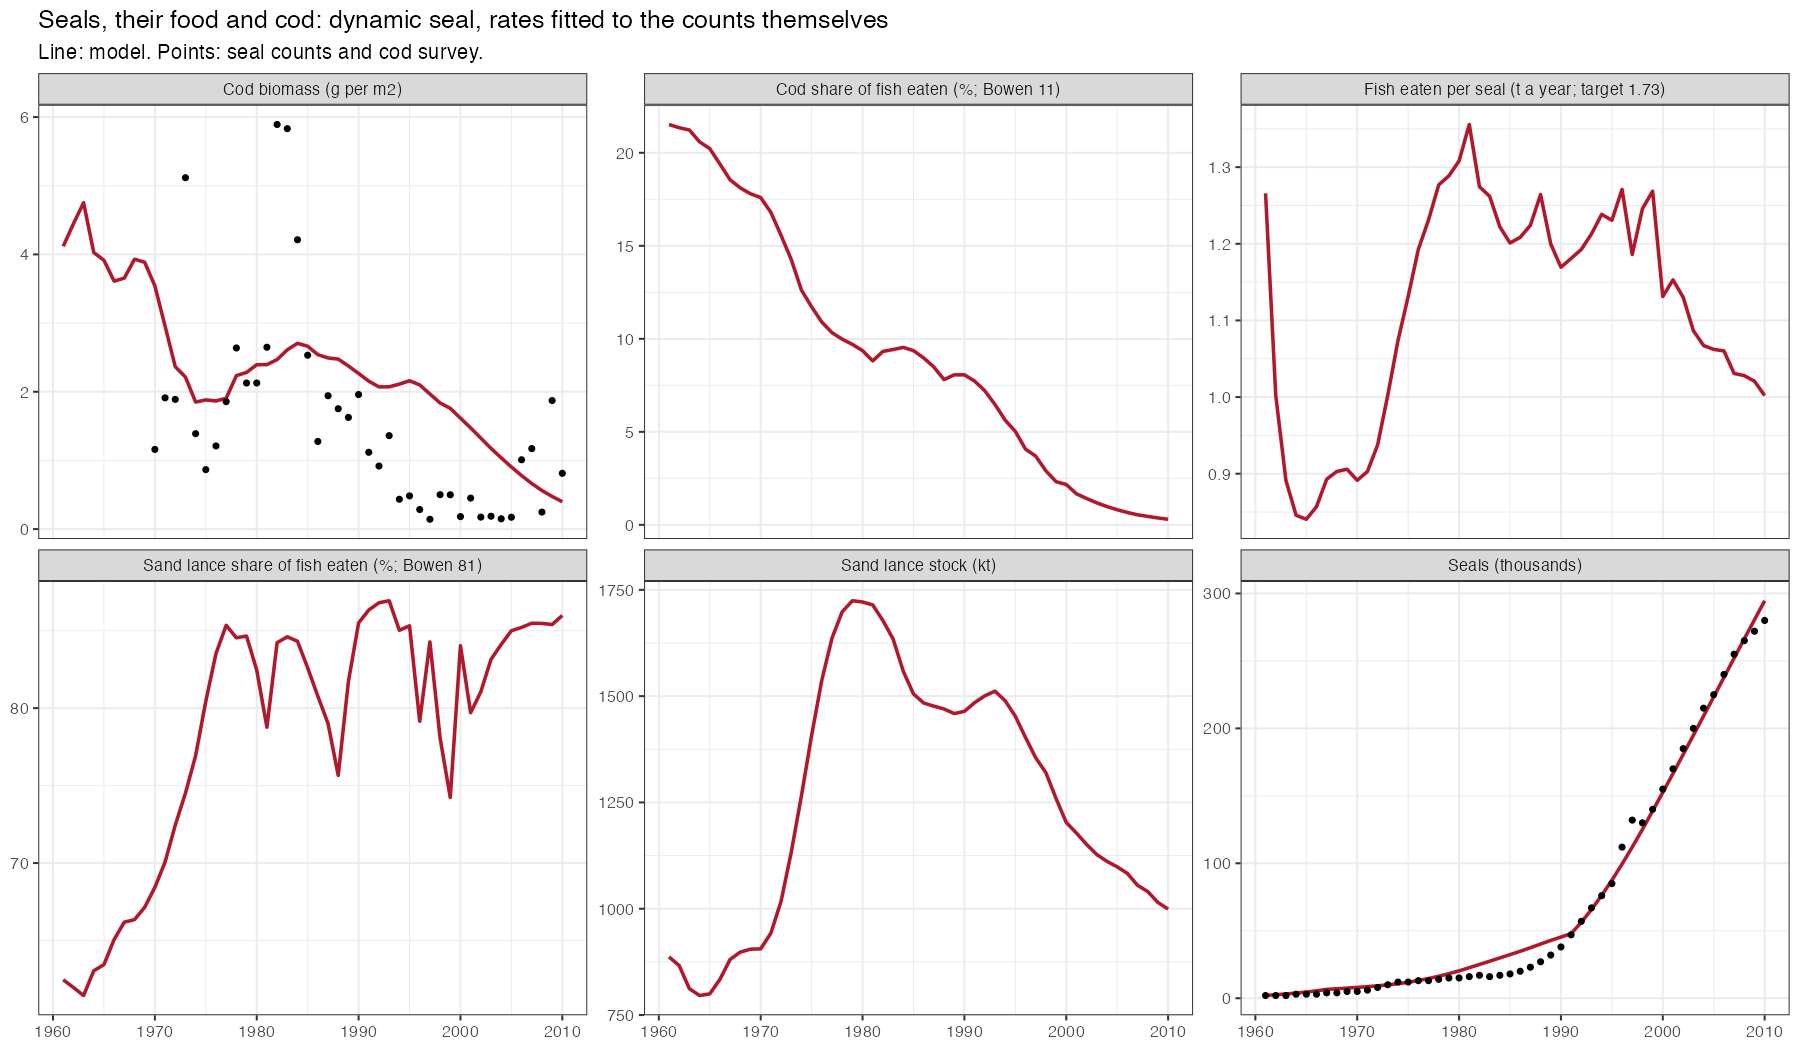
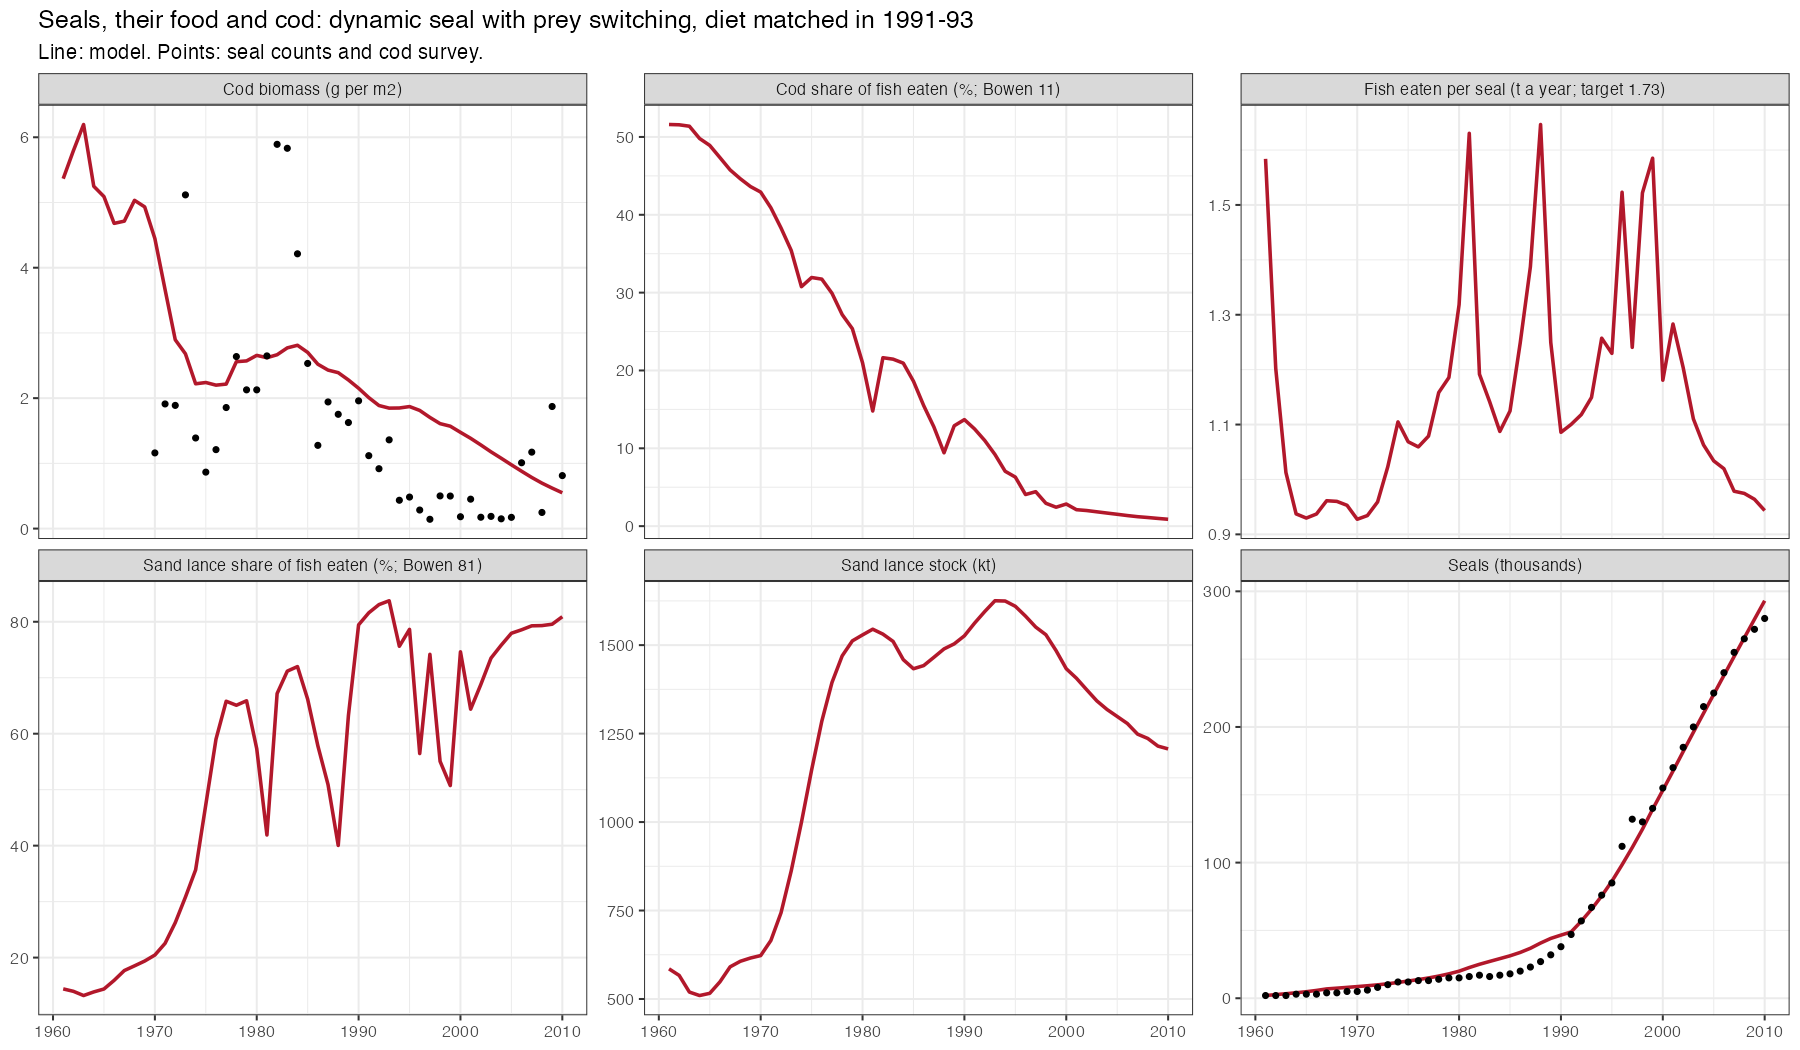
Add seal prey switching and match the seal diet in 1991-93
Prey switching follows Smout et al. (2014) with their exponent of 1.5.
Script 10 adjusts the calibrated diet until the projected diet in the
years Bowen & Harrison sampled matches theirs.

diff --git a/HANDOVER_2026-11-26.md b/HANDOVER_2026-11-26.md
@@ -1947,6 +1947,55 @@ two starting points of the fit ended at different values (mismatch 0.46 and
 0.68), so the answer is not well pinned down. Fish results barely change (cod
 1994-2004 at 0.73). Figures `dynseal_bowen_*.png` are from this run.
 
+## 30. Prey switching for the seal, and the diet matched in 1991-93
+
+**Reference.** Smout, Rindorf, Hammond, Harwood & Matthiopoulos (2014),
+"Modelling prey consumption and switching by UK grey seals", ICES J. Mar. Sci.
+71(1): 81-89, doi 10.1093/icesjms/fst109. They fitted grey seal scat diets
+and prey availability in the North Sea (1985 and 2002) and found a sigmoidal
+(Type 3) response clearly favoured over a hyperbolic one, with the shape
+exponent m fixed at 1.5 from captive seal experiments. Cite the publisher's
+version: the St Andrews repository copy is the author manuscript and its
+abstract says "Type 1 and Type 2, Type 2 favoured". The equation and results
+tables were not read (images on the page); check them in the PDF. The method
+paper is Smout et al. (2010), PLoS ONE 5(5): e10761. Julia also raised optimal
+foraging as a possible mechanism; not pursued, since it needs energy content
+and handling time for each prey.
+
+**What was built.** `dynamic_seal_trial/seal_prey_switching.R` multiplies the
+seal's preference for each fish, at every time step, by (availability now /
+availability in the calibrated state)^0.5. Availability is biomass weighted by
+the prey sizes a 170 kg seal selects. Nothing is fitted. It hooks into mizer
+as a registered extension with its own class, the way therMizer does; setting
+a custom rate function instead silently drops therMizer's temperature effect.
+With the exponent at 1 the run is identical to the plain model.
+
+**Diet timing.** Bowen & Harrison sampled July 1991 to January 1993, so
+script 10 now adjusts the diet that script 8 calibrates to (in the 1978-81
+state) until the projected diet in 1991-93 matches. After eight rounds:
+sand lance 82.9% (80.9), cod 10.7% (11.0), plaice 1.4 (1.4), redfish 1.3
+(1.3), yellowtail 1.1 (1.1), silver hake 0.3 (2.6). Silver hake cannot be
+matched because the model's silver hake nearly vanishes in the early 1990s;
+its calibrated share is held at the cap of 4 times the measured one. The
+calibrated-state diet is then 62% sand lance, 23% cod, 11% silver hake.
+
+**Result** (1,500 kt sand lance, level 0.9; seals refitted: erepro 0.0097,
+harvest 0.104 a year, pup limit 3.0e4; 293/280 thousand in 2010):
+- seal preference for cod falls to 0.79 of its calibrated value in 1990, 0.48
+  in 2000 and 0.31 in 2010;
+- seal mortality on 20-1,000 g cod: 0.42 a year in 1990, 0.70 in 1995, 1.15 in
+  2000, 2.1 in 2010 (4.6 in 2010 without switching);
+- cod in 1994-2004 at 0.59 of 1978-81 (0.73 before; 0.13 observed); cod is
+  still falling in 2010 (0.55 g/m2) where the survey shows a rise;
+- plaice and redfish rise only to 1.5% and 3.8% of the diet by 2010, and both
+  still increase in biomass against the survey;
+- biomass 1970-2004 x1.39, 13/16 within 2x; held-out biomass x2.39.
+
+Open: silver hake in the seal diet swings widely (28% in 1961, 0 in 1992, 14%
+in 2000); before 1970 the abundant cod is half the seal diet; the two
+versions of the Bowen & Harrison proportions in the ESS_Restructured notes
+(80.9/11.0 from Table 2, used here, against 69/15/11) are not reconciled.
+
 ## Commits on `julia`
 
 ```

diff --git a/dynamic_seal_trial/README.md b/dynamic_seal_trial/README.md
@@ -48,6 +48,7 @@ Rscript dynamic_seal_trial/1_build_structure.R
 Rscript dynamic_seal_trial/2_calibrate_with_seals.R
 Rscript dynamic_seal_trial/8_seal_on_bowen_diet.R
 Rscript dynamic_seal_trial/5_fit_seal_growth_and_harvest.R
+SEAL_RATES_FROM=some_earlier_run.rds Rscript dynamic_seal_trial/10_match_bowen_diet_in_1991_93.R
 FIT_SEALS_IN_FULL_MODEL=1 Rscript dynamic_seal_trial/9_project_seal_on_bowen_diet.R
 Rscript dynamic_seal_trial/plot_seal_on_bowen_diet.R
 ```
@@ -60,6 +61,15 @@ Rscript dynamic_seal_trial/plot_seal_on_bowen_diet.R
   `FIT_SEALS_IN_FULL_MODEL=1` it first fits the seal's reproductive efficiency
   and harvest rate, and the limit on pups recruited a year, to the counts
   inside the full model.
+- `seal_prey_switching.R`: prey switching for the seal, after Smout et al.
+  (2014, ICES J. Mar. Sci. 71: 81-89). The seal's preference for a prey is
+  multiplied by (availability now / availability in the calibrated state)^0.5,
+  their exponent of 1.5 less 1. Sourced by script 9; `PREY_SWITCHING=0` turns
+  it off.
+- `10_match_bowen_diet_in_1991_93.R`: repeats scripts 8, 5 and 9, adjusting
+  the diet script 8 calibrates to, until the projected diet in 1991-1993 (the
+  years Bowen & Harrison sampled) matches theirs. Leave `SEAL_RATES_FROM`
+  unset on a first run; the seal rates from script 5 are then used.
 - Scripts 1, 2 and 5 are the earlier ones, now reading their starting model
   from `BASE_PARAMS` and `SEAL_SOURCE`. They and scripts 8 and 9 still read
   Paper 2's seal parameters and the digitised seal counts from
